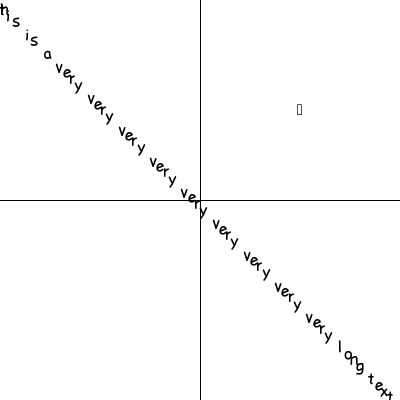
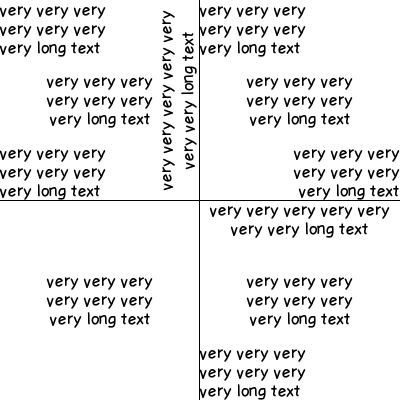
wrap

diff --git a/main.py b/main.py
@@ -1,16 +1,21 @@
 import discord
 from discord import app_commands
 from discord.ext import commands
-import PIL
-from PIL import Image, ImageDraw, ImageFont
+
 import os
 import inspect
+
+import PIL
+from PIL import Image, ImageDraw, ImageFont
 
 TOKEN = os.environ['your_bot_token_here']
 
 PARAM_NUM = 11
 
 HASH_DELIM = '.:.'
+LINE_WIDTH = 1
+WIDEFIT = 1
+MIDFIT = 0.6
 
 bot = commands.Bot(
 	command_prefix='/',
@@ -121,7 +126,7 @@ async def tohash(hash):
 		return hash
 	
 	cuts = hash.split(", ")
-	if len(cuts) == 1 and len(hash.split(" ")) == 1:
+	if len(cuts) == 1 and len(hash.split(".:.")) > 1:
 		if len(hash.split((HASH_DELIM))) == PARAM_NUM:
 			return hash
 		return False
@@ -197,44 +202,82 @@ async def tofile(hash):
 	def drawtextdefault(xy, text, font=font):
 		draw.text(xy, text, font=font, fill="black")
 
-	def drawlinedefualt(xy):
+	def drawprose(xy, text, wrapsize, anchor, font=font):
+		wrap = []
+		size = 0
+		lasti = 0
+		suffix = {'+': ' ', '0': '', '-': ''}[anchor[1]]
+		for i in range(len(text)):
+			if size + getw(text[i]) < wrapsize:
+				size += getw(text[i])
+			else:
+				if len(text[:i].split(" ")) < 2:
+					wrap.append(text[lasti:i])
+					lasti = i + 1
+				else:
+					append = " ".join(text[lasti:i].split(" ")[:-1]) + suffix
+					wrap.append(append)
+					lasti = lasti + len(append) + (1 if suffix == '' else 0)
+				size = 0
+		wrap.append(text[lasti:])
+
+		print(wrap)
+		
+		lh = geth(text)
+		x, y = {'v-': xy,
+						'v0': (xy[0], xy[1] - lh*len(wrap)/2),
+						'v+': (xy[0], xy[1] - lh*len(wrap)),
+						'h-': xy,
+						'h0': (xy[0] - lh*len(wrap)/2, xy[1]),
+						'h+': (xy[0] - lh*len(wrap), xy[1])
+					 } [anchor[0] + anchor[2]]
+		for i in range(len(wrap)):
+			drawtextdefault({
+				'v+': (x, y + lh*i),
+				'v0': (x - getw(wrap[i])/2, y + lh*i),
+				'v-': (x - getw(wrap[i]), y + lh*i),
+				'h+': (x + lh*i, y - getw(wrap[i])),
+				'h0': (x + lh*i, y - getw(wrap[i])/2),
+				'h-': (x + lh*i, y)
+				} [anchor[0] + anchor[1]], wrap[i], font=font)
+		pass
+		
+	def drawline(xy):
 		draw.line(xy, fill='black')
 
-	def getwidth(target):
+	def getw(target):
 		return font.getbbox(target)[2]
 
-	def getheight(target):
+	def geth(target):
 		return font.getbbox(target)[3]
-
-
-							
+	
 	# draw x lines, labels, limits
-	drawlinedefualt((0, oy, width, oy))
+	drawline((0, oy, width, oy))
 
-	drawtextdefault((q1x-getwidth(_x)/2, oy), _x)
+	drawprose((q1x, oy), _x, (width-ox) * WIDEFIT, 'v0-')
 
-	drawtextdefault((0, oy-getheight(_xn)), _xn)
-	drawtextdefault((width-getwidth(_xp), oy-getheight(_xp)), _xp)
+	drawprose((0, oy), _xn, ox * MIDFIT, 'v++')
+	drawprose((width, oy), _xp, (width-ox) * MIDFIT, 'v-+')
 
 
 	# draw y lines, labels, limits
-	drawlinedefualt((ox, 0, ox, height))
+	drawline((ox - LINE_WIDTH/2, 0, ox - LINE_WIDTH/2, height))
 
-	drawtextdefault((ox-getheight(_y), q1y-getwidth(_y)/2), _y, font90)
+	drawprose((ox, q1y), _y, (oy) * WIDEFIT, 'h0+', font90)
 
-	drawtextdefault((ox, height-getheight(_yn)), _yn)
-	drawtextdefault((ox, 0), _yp)
+	drawprose((ox, height), _yn, (width-ox) * MIDFIT, 'v++')
+	drawprose((ox, 0), _yp, (width-ox) * MIDFIT, 'v+-')
 	
 
 	# draw quadrant labels
-	drawtextdefault((q1x-getwidth(_1)/2, q1y), _1)
-	drawtextdefault((q2x-getwidth(_2)/2, q2y), _2)
-	drawtextdefault((q3x-getwidth(_3)/2, q3y), _3)
-	drawtextdefault((q4x-getwidth(_4)/2, q4y), _4)
+	drawprose((q1x, q1y), _1, (width-ox) * MIDFIT, 'v00')
+	drawprose((q2x, q2y), _2, (ox) * MIDFIT, 'v00')
+	drawprose((q3x, q3y), _3, (ox) * MIDFIT, 'v00')
+	drawprose((q4x, q4y), _4, (width-ox) * MIDFIT, 'v00')
 	
-	
-	# draw _t
-	drawtextdefault((0, 0), _t)
+
+	# draw title
+	drawprose((0, 0), _t, ox * MIDFIT, 'v+-')
 	
 	# save image
 	img.save('diagram.png')
